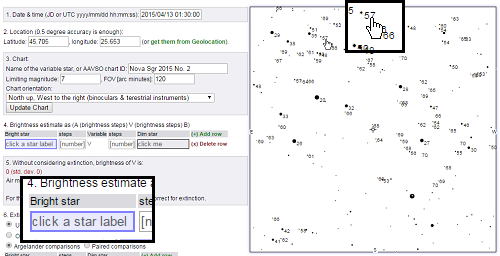
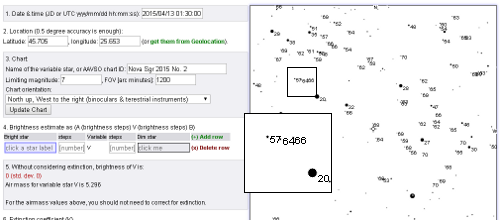
more chapters

diff --git a/index.html b/index.html
@@ -242,8 +242,19 @@ along with this program.  If not, see https://www.gnu.org/licenses/agpl.html
                 <ul>
                     <li>Bright star: select the star labeled <strong>57</strong>, in the NE part of the map, above the 'teapot handle':</li>
 				</ul>
+                <p>1. First, click on the star selection field in the <strong>Bright star</strong> column:</p>
 						<img src="resources/tutorial/beforeselectionactivation.png"><br><br>
+            </div>
+
+            <div id="tutorial7as">
+                <h3>Brightness estimate</h3>
+                <p>2. Then click the required star:</p>
 							<img src="resources/tutorial/beforeselection_reduced.png"><br><br>
+            </div>
+
+            <div id="tutorial7s">
+                <h3>Brightness estimate</h3>
+                <p>3. The selected star is now used in the active star selection field:</p>
 							<img src="resources/tutorial/doneselecting.png">
 				
 			</div>
@@ -278,9 +289,9 @@ along with this program.  If not, see https://www.gnu.org/licenses/agpl.html
                     <li>click the <strong>Or compute it from observations</strong> radio button</li>
                     <li>click the <strong>Argelander comparisons</strong> radio button (it should be already checked by default when starting the application).
                     </li>
+                </ul>
                     <p><em>When using Argelander comparisons, we need to provide at least two comparisons, so the table already has two rows</em></p>
                     <img src="resources/tutorial/tutorial10.png">
-                </ul>
             </div>
 
             <div id="tutorial11">
@@ -314,6 +325,7 @@ along with this program.  If not, see https://www.gnu.org/licenses/agpl.html
                 
                 <p>With the corrections required to compensate differential extinction, the brightness estimate of the variable  is now listed as <strong>5.57</strong></p>
 
+                <img src="resources/tutorial/tutorial13.png">
             </div>
 
             <div id="tutorialbuttons">

diff --git a/scripts/tutorial.js b/scripts/tutorial.js
@@ -32,7 +32,7 @@ var Tutorial = {
         Tutorial.window = Tutorial.popup._window;
         
         var sectionNames = ["tutorial0", "tutorial1", "tutorial2", "tutorial3", "tutorial4", "tutorial5", 
-                    "tutorial6", "tutorial7", "tutorial7b", "tutorial8", "tutorial9", "tutorial10", "tutorial11", "tutorial12"];
+                    "tutorial6", "tutorial7", "tutorial7as", "tutorial7s", "tutorial7b", "tutorial8", "tutorial9", "tutorial10", "tutorial11", "tutorial12"];
         var i = 0;
         for (; i < sectionNames.length; i++) {
             Tutorial.sections.push (document.getElementById(sectionNames[i]));

diff --git a/style/default.css b/style/default.css
@@ -320,7 +320,8 @@ svg, #svgContainer {
 }
 
 #tutorial0, #tutorial1, #tutorial2, #tutorial3, 
-#tutorial4, #tutorial5, #tutorial6, #tutorial7, #tutorial7b,
+#tutorial4, #tutorial5, #tutorial6, #tutorial7, 
+#tutorial7b, #tutorial7as, #tutorial7s,
 #tutorial8, #tutorial9, #tutorial10, #tutorial11, 
  #tutorial12{
     width: 99%;
